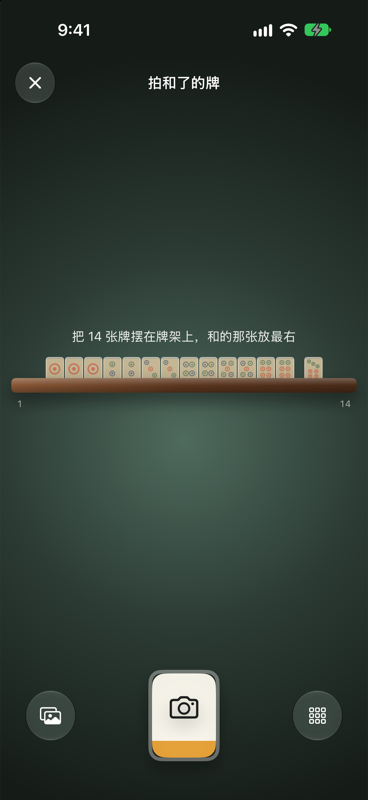
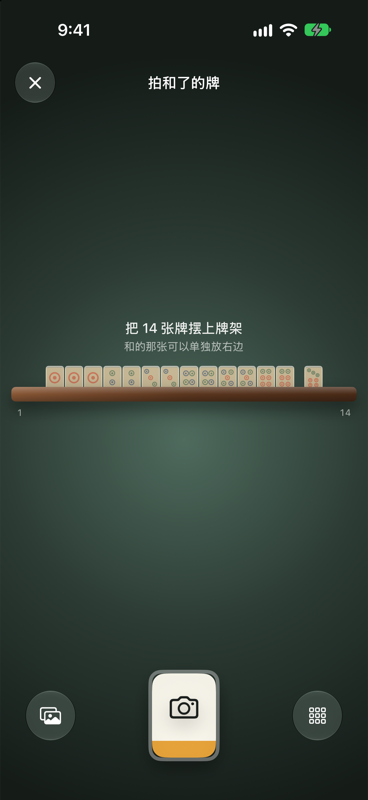
Stop requiring the winning tile to be rightmost
The camera now just says to put 14 tiles on the rack (setting the winning
tile apart is an optional hint). On the check screen every distinct tile is
tried as the winning tile; when they all score the same han and fu there is no
question at all. Only when the choice changes the score do the candidate tiles
light up on the felt with "which tile won?", the rest dimmed, and a tap picks
one. The rightmost tile is preselected when it can win, otherwise the highest
scoring candidate; nothing blocks recording. All of this is UI-side
(WinningTileChoice.swift) on top of FanCalculator.

Recognition does not report gaps between tiles yet, so a visibly separated
tile is not detected; the rightmost tile is the default instead.

Changed region(s): [[0.0299, 0.375, 0.9864, 0.5312]]

diff --git a/app/MajiangApp/Round/CheckView.swift b/app/MajiangApp/Round/CheckView.swift
@@ -97,6 +97,8 @@ struct CheckView: View {
         .onAppear {
             if model.demoScreen == .doraSheet { countingDora = true }
         }
+        // 换了牌以后，原来选的和牌不能和了，就挑一张最可能的
+        .onChange(of: flow.tiles.map(\.tile), initial: true) { _, _ in flow.settleWinningTile() }
         .task {
             // 等页面淡入再摆牌（onAppear 里直接改，第一帧还没画，看不到动画）
             flipStart = Date().addingTimeInterval(reduceMotion ? 0 : 1.3)
@@ -251,29 +253,42 @@ struct CheckView: View {
         }
     }
 
-    /// 一条绿毡，牌一张张摆上去（从左往右推进来，像发牌），和的那张单独放在最右。
+    /// 和的是哪张会影响翻符时才问：那几张亮着，别的暗一点，点一下选；翻符都一样就不问。
+    private var askingWinningTile: Bool {
+        !flow.isReviewing && flow.firstPending == nil && flow.winningTileMatters
+    }
+
+    /// 一条绿毡，牌一张张摆上去（从左往右推进来，像发牌）。不要求和的那张放最右。
     private var feltStrip: some View {
         FeltBanner {
             VStack(spacing: 12) {
                 let width = stripTileWidth
+                let asking = askingWinningTile
+                let candidates = Set(flow.winningCandidates.map { flow.tiles[$0.index].tile })
                 HStack(alignment: .bottom, spacing: 2) {
                     ForEach(Array(flow.tiles.enumerated()), id: \.element.id) { index, tile in
-                        if index == winningIndex && index == flow.tiles.count - 1 && flow.tiles.count > 1 {
-                            Color.clear.frame(width: width * 0.45, height: 1)
-                        }
+                        let isCandidate = candidates.contains(tile.tile)
                         Button {
-                            actionTile = index
+                            // 问和的是哪张时，点亮着的牌就是选它；点已经选中的那张才是换牌
+                            if asking && isCandidate && index != winningIndex {
+                                flow.winningIndex = index
+                            } else {
+                                actionTile = index
+                            }
                         } label: {
                             FlippingTile(index: index, width: width, active: flow.isReviewing, start: flipStart) {
                                 TileFace(tile: tile.tile, width: width,
                                          state: tile.needsReview ? .doubt : index == suspect ? .wrong : .normal)
                             }
                             .overlay(alignment: .bottom) {
-                                if index == winningIndex {
+                                if asking && index == winningIndex {
                                     Capsule().fill(.white).frame(width: width * 0.5, height: 3).offset(y: 8)
                                         .accessibilityLabel("和的那张")
                                 }
                             }
+                            .opacity(asking && !isCandidate ? 0.45 : 1)
+                            .offset(y: asking && index == winningIndex ? -4 : 0)
+                            .animation(.snappy(duration: 0.2), value: winningIndex)
                         }
                         .buttonStyle(.plain)
                         .disabled(flow.isReviewing)
@@ -339,7 +354,10 @@ struct CheckView: View {
     private var stripHint: String {
         if flow.isReviewing { return tr("每张再认一遍，几秒就好", "もう一度読み取り中…", "Double-checking each tile…") }
         if flow.firstPending != nil { return tr("点一张牌就能换 · 红框那张看不太清", "タップで差し替え・赤枠は不鮮明", "Tap a tile to swap · red frame = unclear") }
-        return tr("点一张牌就能换 · 最右边是和的那张", "タップで差し替え・右端が和了牌", "Tap a tile to swap · rightmost is the winning tile")
+        if askingWinningTile {
+            return tr("和的是哪张？亮着的几张算出来不一样，点一下", "和了牌はどれ？明るい牌で点数が変わります", "Which tile won? The lit tiles score differently")
+        }
+        return tr("点一张牌就能换", "タップで差し替え", "Tap a tile to swap")
     }
 
     /// 识别时的说明（画面里有别的牌没算、副露两边读得不一样、Gemini 没复核上……）。

diff --git a/app/MajiangApp/Round/WinningTileChoice.swift b/app/MajiangApp/Round/WinningTileChoice.swift
@@ -1,0 +1,47 @@
+import MajiangKit
+
+/// 和的是哪张：不要求一定放在最右。每种牌各当一次和的那张算一遍，
+/// 算出来翻符都一样就不用问；不一样才在绿毡上把这几张标出来让人点。
+extension RoundFlow {
+    struct WinningCandidate: Equatable {
+        /// 这种牌在立牌里第一次出现的位置。
+        var index: Int
+        var han: Int
+        var fu: Int
+    }
+
+    /// 能当和的那张、而且这样能和的牌（每种牌一次）。
+    var winningCandidates: [WinningCandidate] {
+        let concealed = tiles.map(\.tile)
+        guard concealed.count > 1 else { return [] }
+        var seen = Set<Tile>()
+        var result: [WinningCandidate] = []
+        for (index, tile) in concealed.enumerated() where seen.insert(tile).inserted {
+            let candidate = Hand(melds: melds, concealed: concealed, winningTile: tile)
+            guard case .success(let score) = FanCalculator.score(candidate, context: context),
+                  score.meetsMinimum(game.rules.minimumFan) else { continue }
+            result.append(WinningCandidate(index: index, han: score.totalFan, fu: score.fu))
+        }
+        return result
+    }
+
+    /// 和的是哪张会影响翻符，才需要问。
+    var winningTileMatters: Bool {
+        Set(winningCandidates.map { "\($0.han)/\($0.fu)" }).count > 1
+    }
+
+    /// 现在选的那张不能当和的那张（比如换了牌）时，挑一张最可能的：最右边那张能和就用它，不然用翻符最高的。
+    func settleWinningTile() {
+        let candidates = winningCandidates
+        guard !candidates.isEmpty else { return }
+        let concealed = tiles.map(\.tile)
+        let current = winningIndex.flatMap { concealed.indices.contains($0) ? concealed[$0] : nil } ?? concealed.last
+        if let current, candidates.contains(where: { concealed[$0.index] == current }) { return }
+        if let last = concealed.last, candidates.contains(where: { concealed[$0.index] == last }) {
+            winningIndex = concealed.indices.last
+            return
+        }
+        let best = candidates.max { ($0.han, $0.fu) < ($1.han, $1.fu) }
+        winningIndex = best.map { candidate in concealed.lastIndex(of: concealed[candidate.index]) ?? candidate.index }
+    }
+}

diff --git a/app/MajiangApp/Round/CaptureView.swift b/app/MajiangApp/Round/CaptureView.swift
@@ -143,13 +143,18 @@ struct CaptureView: View {
     /// 取景提示：一句话、一排示意牌立在胡桃木牌架上，两头标着 1 和 14。
     private var rackGuide: some View {
         VStack(spacing: 14) {
-            Text(cameraOn || model.effectiveRecognitionMode == .demo || model.demoScreen != nil
-                 ? tr("把 14 张牌摆在牌架上，和的那张放最右", "14枚を牌架に並べ、和了牌を一番右に", "Line up all 14 tiles on the rack, winning tile on the right")
-                 : tr("这台设备没有相机，从左下角的相册选一张", "カメラがありません。左下のアルバムから選んでください", "No camera here. Pick a photo from the album"))
-                .font(.system(size: 14))
-                .foregroundStyle(.white.opacity(0.9))
-                .multilineTextAlignment(.center)
-                .padding(.horizontal, 24)
+            VStack(spacing: 4) {
+                Text(cameraOn || model.effectiveRecognitionMode == .demo || model.demoScreen != nil
+                     ? tr("把 14 张牌摆上牌架", "14枚を牌架に並べる", "Line up all 14 tiles on the rack")
+                     : tr("这台设备没有相机，从左下角的相册选一张", "カメラがありません。左下のアルバムから選んでください", "No camera here. Pick a photo from the album"))
+                    .font(.system(size: 15, weight: .medium))
+                Text(tr("和的那张可以单独放右边", "和了牌は右に離して置いてもOK", "You can set the winning tile apart on the right"))
+                    .font(.system(size: 12))
+                    .foregroundStyle(.white.opacity(0.65))
+            }
+            .foregroundStyle(.white.opacity(0.92))
+            .multilineTextAlignment(.center)
+            .padding(.horizontal, 24)
             VStack(spacing: 0) {
                 ViewThatFits(in: .horizontal) {
                     sampleHand(tileWidth: 20)
